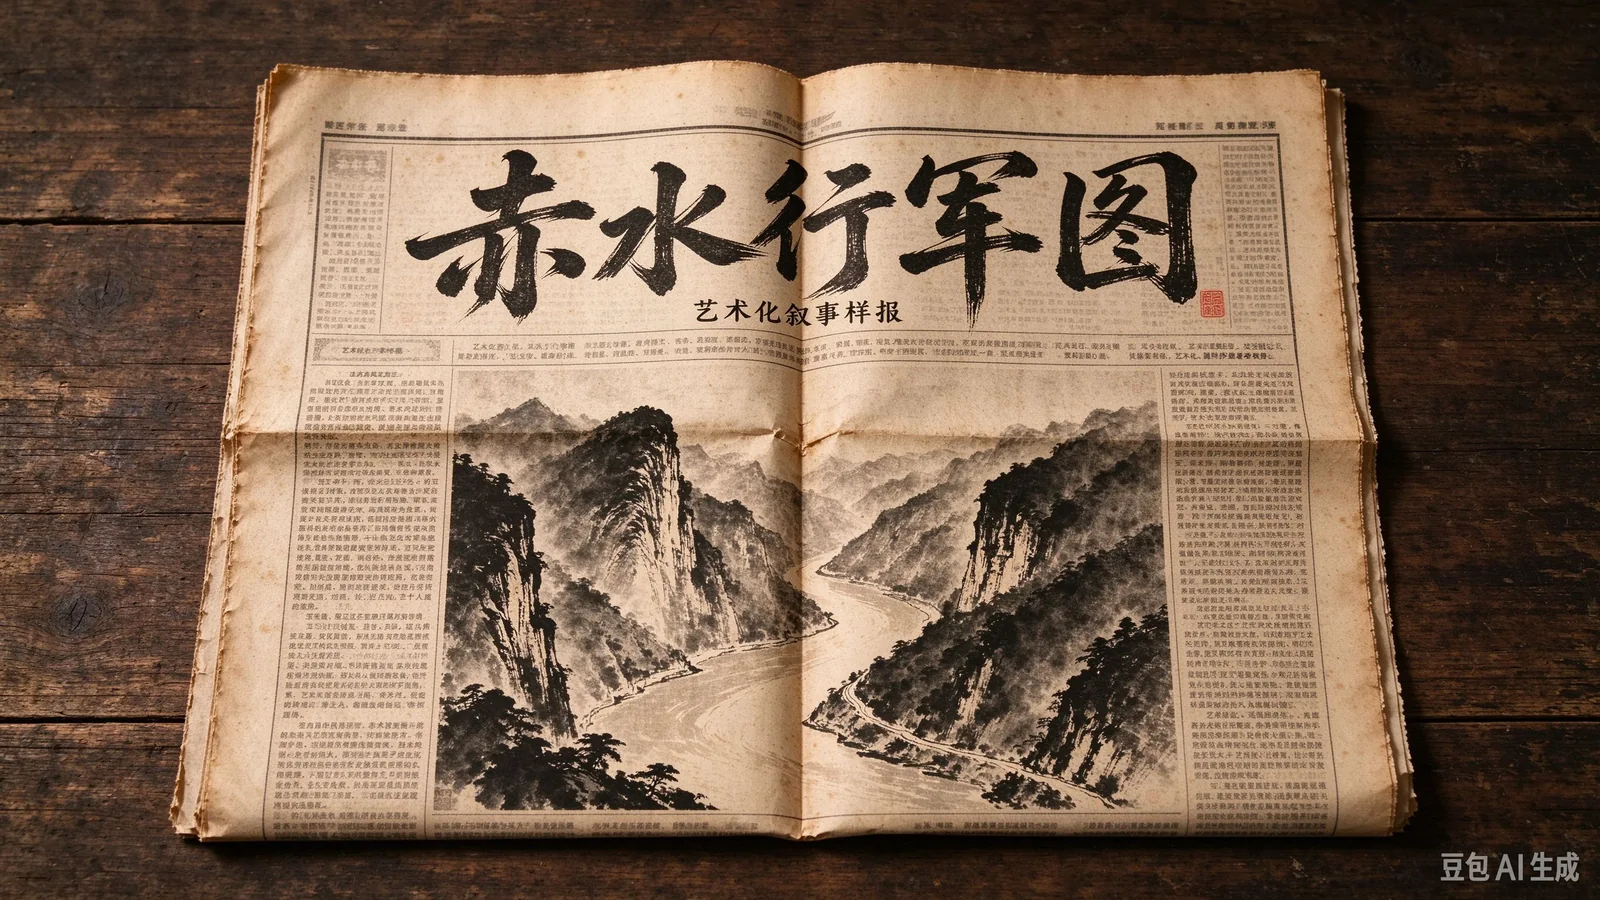
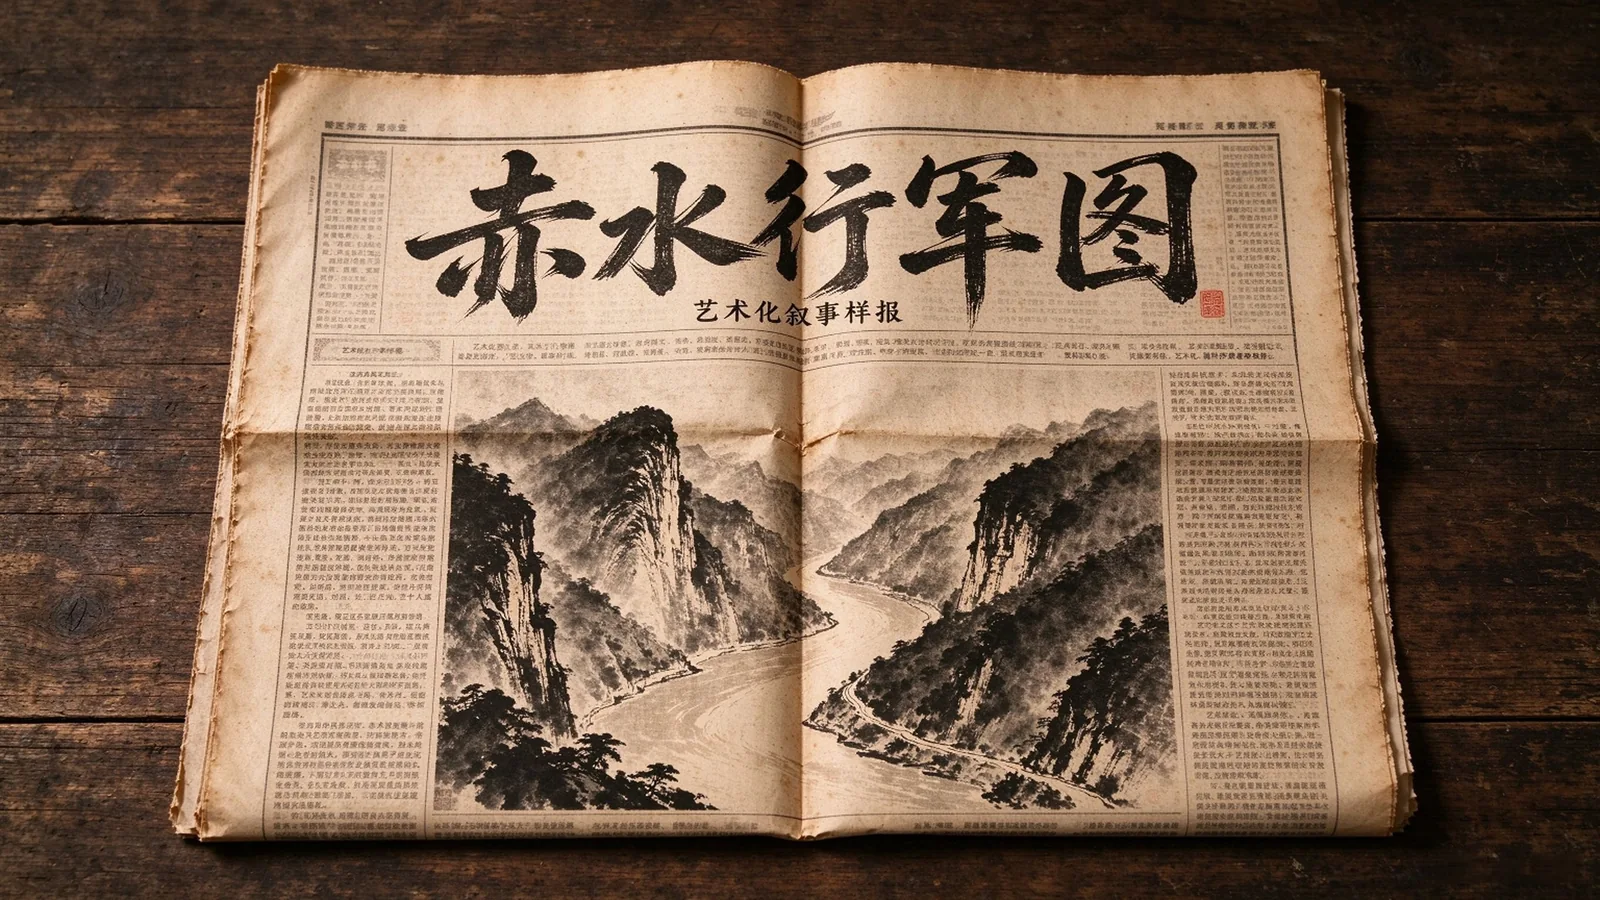
订正了开幕和河岸的背景图

Changed region(s): [[0.9062, 0.9333, 1.0, 0.9956]]

diff --git a/src/components/OpeningArt.ts b/src/components/OpeningArt.ts
@@ -2,7 +2,7 @@ import { opening } from '../data/narrative';
 import { escapeHtml } from '../utils/html';
 
 export function renderOpeningNewspaper(): string {
-  return `<figure class="newspaper-art"><img src="${escapeHtml(opening.artwork.newspaper)}" width="2730" height="1536" alt="赤水行军图：木桌上摊开的旧报纸，报头为赤水行軍圖，下方为藝術化敘事樣報，中央印有赤水河水墨山水。" decoding="async" fetchpriority="high"><figcaption class="sr-only">艺术化叙事样报，非历史报纸原件。素材内含 AI 生成标识。</figcaption></figure>`;
+  return `<figure class="newspaper-art"><img src="${escapeHtml(opening.artwork.newspaper)}" width="2730" height="1536" alt="赤水行军图：木桌上摊开的旧报纸，报头为赤水行軍圖，下方为藝術化敘事樣報，中央印有赤水河水墨山水。" decoding="async" fetchpriority="high"><figcaption class="sr-only">AI 辅助生成的艺术化叙事样报，非历史报纸原件。</figcaption></figure>`;
 }
 
 export function renderOpeningLandscape(): string {

diff --git a/src/data/narrative.ts b/src/data/narrative.ts
@@ -39,7 +39,6 @@ export const scenes: Record<string, string | null> = {
 export const sceneFraming: Record<string, string> = {
   'a01-bg04': '65% 50%',
   'a02-bg01': '65% 50%',
-  'a04-bg02': '22% 50%',
   'a05-bg01': '60% 50%',
 };
 

diff --git a/docs/场景美术接入说明.md b/docs/场景美术接入说明.md
@@ -2,6 +2,8 @@
 
 2026-10-19 接入「图片(1).zip」的 13 张背景，正文和幕间转场共用同一套图片。
 
+2026-10-21 使用「修改图.zip」中的「11茅台镇外-赤水河滩 .png」替换 `act04-bg02` 的源图与网页图。新版河岸移除了原图旗帜，原图2848×1600，网页图1600×899；该场景恢复居中取景，桌面、手机与转场共用新版。
+
 ## 文件对应
 
 原始 PNG 保存在 `art-source/scenes/originals/`，网页 WebP 保存在 `public/assets/scenes/`。以下文件名列省略扩展名；原始文件名、尺寸、SHA-256 和压缩后体积记录在 `art-source/scenes/asset-manifest.json`。
@@ -24,11 +26,11 @@
 
 ## 网页显示
 
-- 原图合计约60.96 MB。初次WebP为6.82 MB；2026-10-20再次优化为最长边1600px、质量83，当前体积见 `docs/asset-optimization.json`，源PNG完整保留。
+- 初版原图合计约60.96 MB，初次WebP为6.82 MB；2026-10-20再次优化为最长边1600px、质量83，历史体积见 `docs/asset-optimization.json`。2026-10-21河岸修正版体积见 `docs/artwork-replacement-20261021.json`，源PNG完整保留。
 - 图片路径配置在 `src/data/narrative.ts` 的 `scenes`，裁切焦点配置在 `sceneFraming`。
-- 全屏使用 cover；竖屏会裁去横图两侧。夜渡与雨营焦点设为横向 65%，河滩为 22%，深夜浮桥为 60%，其余居中。正文与转场采用一致焦点。
+- 全屏使用 cover；竖屏会裁去横图两侧。夜渡与雨营焦点设为横向 65%，深夜浮桥为 60%，新版河滩与其余场景居中。正文与转场采用一致焦点。
 - 后续同名替换 WebP 即可更新对应场景；更换构图时应同步检查竖屏焦点。
 
 ## 美术复核记录
 
-当前按交付图接入。第 9 张的前景人物、招牌较突出，后续接入正式立绘时应复查遮挡。第 11 张出现五星红旗，与故事的 1935 年背景不符，需要美术修正；空中白色轨迹也请文史组核对。第 13 张含桥墩和近岸人物，与原提示词的浮桥、留空前景存在差异，建议美术组确认。原图均完整保留，便于后续修订。
+当前按交付图接入。第 9 张的前景人物、招牌较突出，后续接入正式立绘时应复查遮挡。第 11 张原有旗帜已由2026-10-21修正版移除，空中白色轨迹仍请文史组核对。第 13 张含桥墩和近岸人物，与原提示词的浮桥、留空前景存在差异，建议美术组确认。源图与本次修订的来源、哈希记录在素材清单中。

diff --git a/docs/开篇美术接入说明.md b/docs/开篇美术接入说明.md
@@ -1,6 +1,6 @@
 # 开篇美术接入说明
 
-用户提供的《开篇图(1).zip》包含一张完整旧报纸和四张赤水河画面，尺寸均为 2730 × 1536。完整报纸为木桌俯拍，报头《赤水行军图》，副标题“艺术化叙事样报”，中央为山水插画；其余四图分别为水墨、雾气推进、上色和压暗版本。
+2026-10-21 已用《修改图.zip》替换一张完整旧报纸和四张赤水河开幕画面，尺寸均为 2730 × 1536。初版来自《开篇图(1).zip》。完整报纸为木桌俯拍，报头《赤水行军图》，副标题“艺术化叙事样报”，中央为山水插画；其余四图分别为水墨、雾气推进、上色和压暗版本。
 
 ## 文件位置
 
@@ -9,7 +9,7 @@
 - 路径配置：`src/data/narrative.ts` 的 `openingArtwork`，使用 `assets/opening/…` 相对路径，兼容 GitHub Pages 仓库子路径。
 - 渲染：`src/components/OpeningArt.ts`；动画：`src/immersive.css` 的 `opening-*` 关键帧。
 
-原图共29,702,691字节。初次网页资源为4,637,808字节；2026-10-20优化为最长边1600px、WebP质量83，当前资源1,239,928字节。原始PNG保留原始文件字节，不进入 `dist/`。
+当前修正版原图共28,636,182字节，网页资源共1,200,380字节，沿用最长边1600px、WebP质量83。原始PNG保留压缩包内原始字节，不进入 `dist/`。来源与哈希见 `art-source/opening/asset-manifest.json`，替换记录见 `docs/artwork-replacement-20261021.json`。
 
 ## 对应替换
 
@@ -18,7 +18,7 @@
 开篇按以下顺序播放（2026-10-19 调整）：
 
 1. `图片风格分析与AI生成词提取.png`：完整报纸，从出现起缓慢推进。
-2. `赤水河雾气-推进帧(无中缝).png`：雾气推进。
+2. `赤水河雾气-推近帧(无中缝).png`：雾气推进。
 3. `图片风格分析与AI生成词提取 (1).png`：水墨赤水河。
 4. `赤水河-缓慢上色帧.png`：逐渐上色。
 5. `赤水河-压暗收尾帧.png`：压暗收尾。
@@ -27,4 +27,4 @@
 
 进入第一幕前的转场复用压暗帧，替换原来的纯 CSS 报纸占位。手机上的报纸完整显示；山水段使用铺满视口的居中取景。
 
-图内装饰性栏文不纳入剧本文字或史料札记，AI 生成标识保留。后续替换清晰版时可沿用这五个文件名。
+图内装饰性栏文不纳入剧本文字或史料札记，画面按本次交付原样使用。后续替换清晰版时可沿用这五个网页文件名。

diff --git a/art-source/opening/README.md b/art-source/opening/README.md
@@ -1,15 +1,15 @@
 # 开篇美术源图
 
-来源：用户于 2026-10-17 提供的《开篇图(1).zip》。以下 PNG 保留原始文件字节与 2730 × 1536 尺寸；网页运行文件存放在 `public/assets/opening/`，不直接加载本目录的原图。
+来源：2026-10-21 使用用户提供的《修改图.zip》替换五张开幕图，初版来自《开篇图(1).zip》。以下 PNG 保留压缩包内原始字节与 2730 × 1536 尺寸；网页运行文件存放在 `public/assets/opening/`，文件来源、尺寸和哈希记录在 `asset-manifest.json`。
 
 | 源图文件 | 压缩包内文件名 | 对应用途 |
 | --- | --- | --- |
 | `newspaper.png` | `图片风格分析与AI生成词提取.png` | 首页完整报纸、开场第一帧 |
-| `river-mist.png` | `赤水河雾气-推进帧(无中缝).png` | 第二帧：推进至无中缝的山水与雾气 |
+| `river-mist.png` | `赤水河雾气-推近帧(无中缝).png` | 第二帧：推进至无中缝的山水与雾气 |
 | `river-ink.png` | `图片风格分析与AI生成词提取 (1).png` | 第三帧：无报纸底纹的水墨赤水河 |
 | `river-color.png` | `赤水河-缓慢上色帧.png` | 暖纸色与暗红逐渐显现 |
 | `river-dark.png` | `赤水河-压暗收尾帧.png` | 开篇压暗、进入第一幕前的转场背景 |
 
-完整报纸的主要可辨识文字为报头《赤水行军图》和“艺术化叙事样报”，中央为赤水河山水插画；小号栏文是图像内的装饰性文字，不作为可核验史料。五张图均含“豆包 AI 生成”标识，接入时保留原样。
+完整报纸的主要可辨识文字为报头《赤水行军图》和“艺术化叙事样报”，中央为赤水河山水插画；小号栏文是图像内的装饰性文字，不作为可核验史料。修正版按用户交付整图替换，图内文字、标识和画面内容保持交付原样。
 
-源PNG保留原始字节，不参与Vite发布目录复制。2026-10-20为优化加载，网页WebP改为最长边1600px、质量83；未重绘或改写图内内容。实测体积记录见 `docs/asset-optimization.json`。
+源PNG保留原始字节，不参与Vite发布目录复制。网页WebP沿用最长边1600px、质量83；修正版体积记录见 `docs/artwork-replacement-20261021.json`，此前的压缩记录保留在 `docs/asset-optimization.json`。
